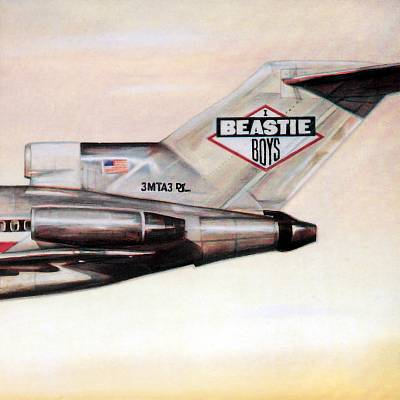
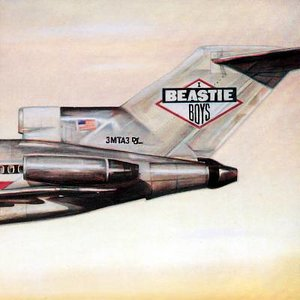
Added notes in JS and resized photos to 300x300px.

Changed region(s): [[0.54, 0.27, 0.72, 0.42], [0.36, 0.45, 0.45, 0.48], [0.72, 0.3, 0.75, 0.33]]

diff --git a/app.js b/app.js
@@ -1,28 +1,14 @@
-//
-
-
-
-// var img = document.createElement("img");
-// var img2 = document.createElement("img");
-
-// img.src = "img/cap.jpg";
-// img2.src = "img/enter36.jpg";
-
-// var src = document.getElementById("left");
-// var src2 = document.getElementById("right");
-
-// src.appendChild(img);
-// src.appendChild(img2);
 'use strict'
 
-function Photo (name, path) {
+function Photo (name, path) { //object constructor for images
   this.name = name;
   this.path = path;
   this.votes = 0;
   // photoArray.push(this);
 }
 
-var allEyes = new Photo ("2Pac - All Eyes On Me", "img/alleyes.jpg");
+//Creation of new Photo objects. One for each image.
+var allEyez = new Photo ("2Pac - All Eyes On Me", "img/alleyez.png");
 var cap = new Photo ("Big Pun - Capital Punishment", "img/cap.jpg");
 var daily = new Photo ("Gang Starr - Daily Operation", "img/daily.jpg");
 var doomsday = new Photo ("MF DOOM - DOOMSDAY", "img/doomsday.jpg");
@@ -35,32 +21,39 @@ var ready = new Photo ("The Notorious BIG - Read to Die", "img/ready.jpg");
 var supreme = new Photo ("Ghostface Killah - Supreme Clientele", "img/supreme.jpg");
 var theChronic = new Photo ("Dr. Dre - The Chronic", "img/thechronic.jpg");
 
-var photoArray = [allEyes, cap, daily, doomsday, enter36, illmatic, infamous, license, liquid, ready, supreme, theChronic];
+//Putting each Photo object into an array
+var photoArray = [allEyez, cap, daily, doomsday, enter36, illmatic, infamous, license, liquid, ready, supreme, theChronic];
 
+//Creating the Tracker object
 var Tracker = function() {
-  this.getRandomPhoto = function() {
-    return Math.floor((Math.random() * 12) + 0);
-    //generate a random number to select an image from photoArray
-  };
 }
 
+//This Track method generates a random number to select an image from photoArray
+Tracker.prototype.getRandomPhoto = function() {
+    return Math.floor((Math.random() * 12) + 0);
+  };
+
+//Creating a new Tracker object
 var rapBattle = new Tracker ();
 
+//Declaring left and right cover images by rapBattle.getRandomPhoto() method.
 var leftCover = photoArray[rapBattle.getRandomPhoto()];
 var rightCover = photoArray[rapBattle.getRandomPhoto()];
 
-
+//If the left cover = the right cover it will reassign a new cover to the rightCover
+//and leftCover variables until they are not the same.
 while (leftCover === rightCover) {
   rightCover = photoArray[rapBattle.getRandomPhoto()];
   leftCover = photoArray[rapBattle.getRandomPhoto()];
 }
 
+console.log (leftCover);
+console.log (rightCover);
+
 var first = document.getElementById('left');
 var second = document.getElementById('right');
 
-console.dir (leftCover);
-console.dir (rightCover);
-
+//This method puts the images and album titles into HTML
 Tracker.prototype.displayPhotos = function () {
   var leftPhoto = document.createElement('img');
   var leftTitle = document.getElementById('leftName');
@@ -75,13 +68,10 @@ Tracker.prototype.displayPhotos = function () {
   rightTitle.innerHTML = rightCover.name;
 }
 
-rapBattle.displayPhotos();
-
-
 Tracker.prototype.leftWins = function(event) {
-  event.preventDefault();
-  event.target.style.outline = "solid blue 5px";
-    leftCover.votes += 1;
+  event.preventDefault(); //When the event is triggered by the click it will not reload the page.
+  event.target.style.outline = "solid blue 5px";//This adds a blue border to left cover if clicked
+    leftCover.votes += 1; //This gives that cover 1 vote.
     console.log(leftCover.name + " has " + leftCover.votes + " votes.");
 }
 
@@ -92,6 +82,7 @@ Tracker.prototype.rightWins = function(event) {
     console.log(rightCover.name + " has " + rightCover.votes + " votes.");
 }
 
-first.addEventListener('click', rapBattle.leftWins);
-second.addEventListener("click", rapBattle.rightWins);
+first.addEventListener('click', rapBattle.leftWins); //If the left image is clicked it runs the leftWins method
+second.addEventListener("click", rapBattle.rightWins); //If the left image is clicked it runs the leftWins method
 
+rapBattle.displayPhotos();
